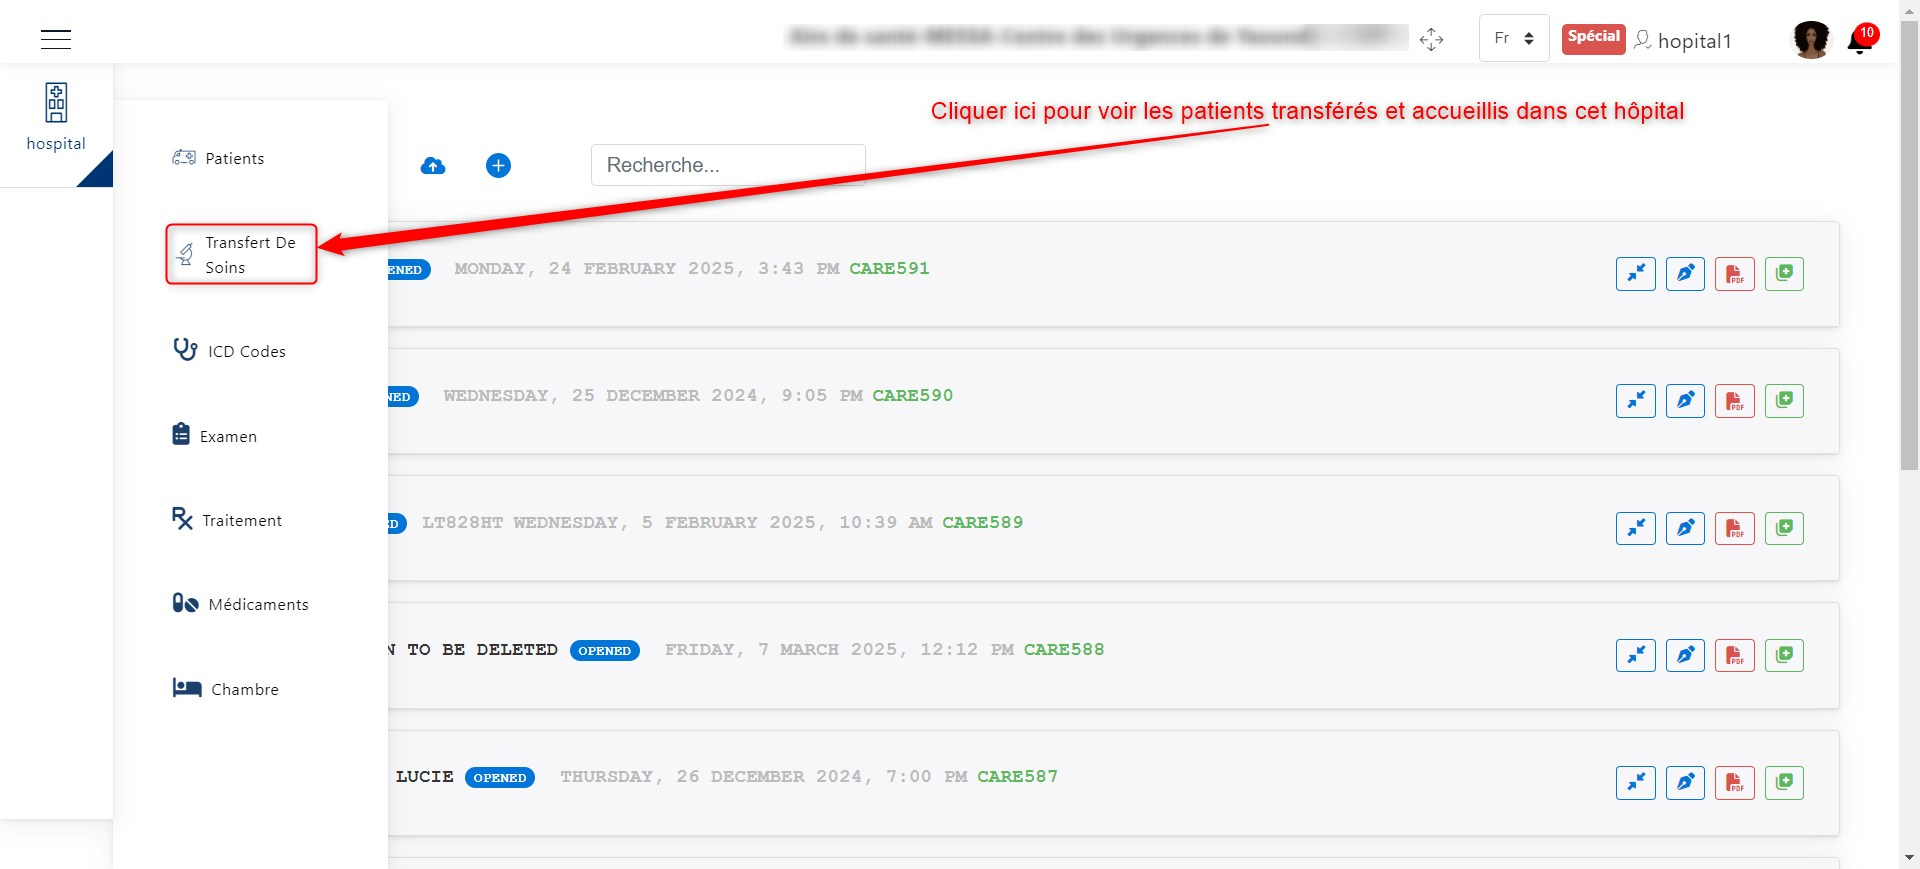
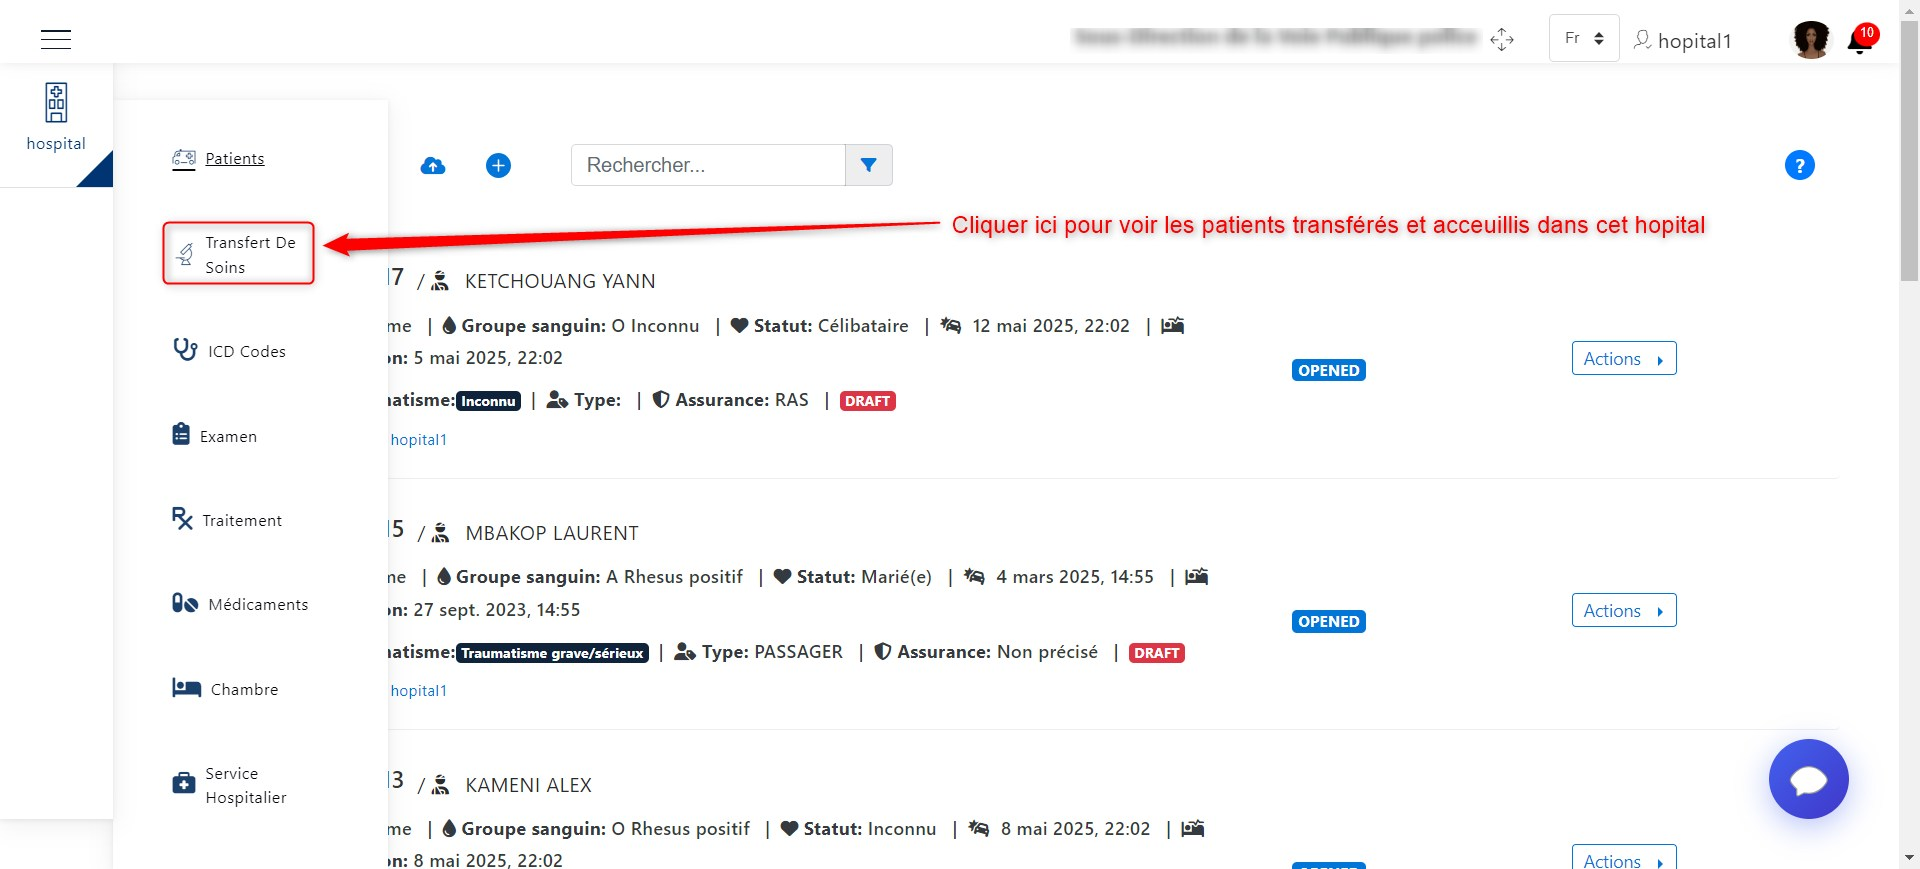
mise a jour

diff --git a/PriseEnCharge/GestDossMed.rst b/PriseEnCharge/GestDossMed.rst
@@ -286,7 +286,7 @@ existant, il faut cliquer sur le bouton **Transfert De Soins** comme présenté 
 .. centered:: bouton d'accès à la liste des patients transférés.
 
 Une fois avoir cliqué sur le bouton **Transfert De Soins**, vous pouvez visualiser la liste 
-des patients transférés et des patients admis dans l'hôpital avec un dossier médical.
+des patients transférés dans l'hôpital avec un dossier médical.
 
 .. _refListePatientsTransferes:
 
